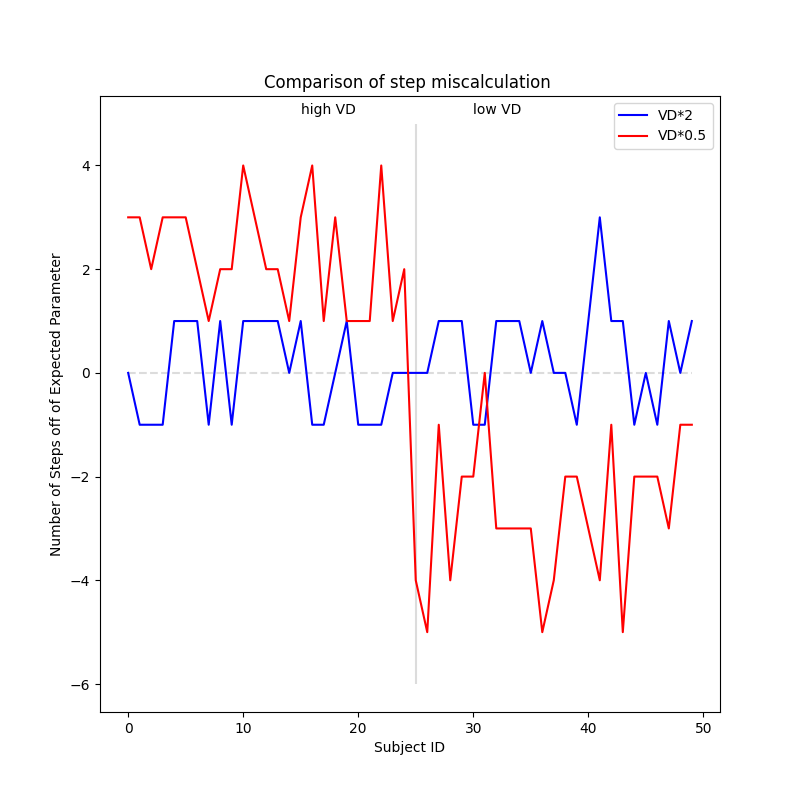
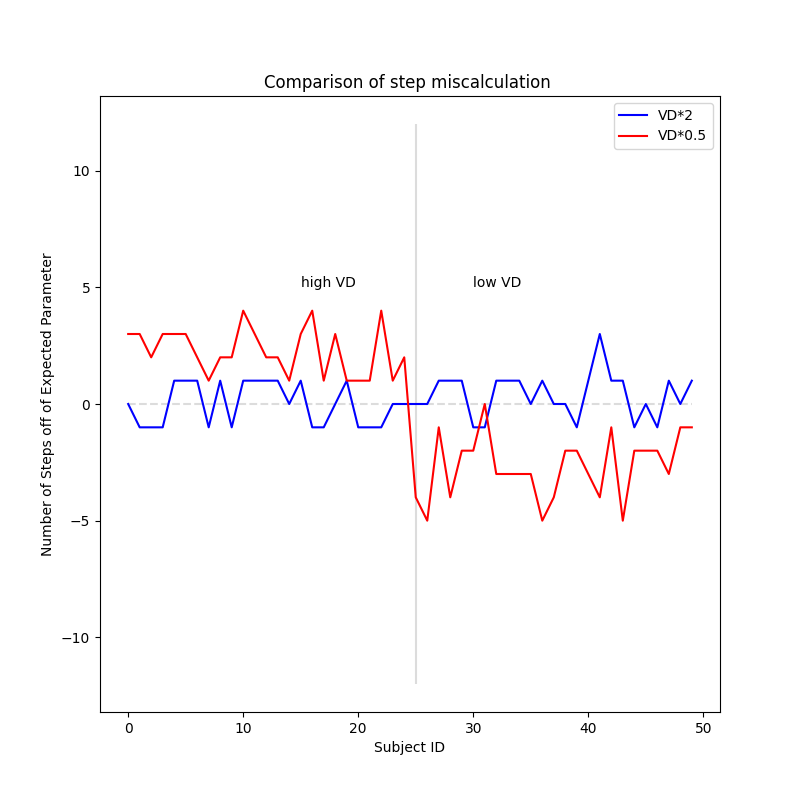
Add average ratios

diff --git a/Da_data/compare_avg_ratios.py b/Da_data/compare_avg_ratios.py
@@ -1,0 +1,80 @@
+import pandas as pd 
+import numpy as np
+import matplotlib.pyplot as plt
+import sys
+
+PARAM = sys.argv[1]
+
+assert PARAM in ["d", "sigma", "theta"]
+
+version = sys.argv[2]
+try: 
+    suffix = sys.argv[3]
+except IndexError: 
+    suffix = ""
+
+
+pd1 = pd.read_csv(f"v{version}_output/run_4condi{suffix}.csv")
+pd2 = pd.read_csv(f"v{version}_output/run_2{suffix}.csv")
+pd05 = pd.read_csv(f"v{version}_output/run_05{suffix}.csv")
+
+subjects = []
+d1_to_d2 = []
+d1_to_d05 = []
+
+plt.figure(figsize=(8, 8))
+
+num_subjects = pd1.shape[0]
+print(f"num_subjects={num_subjects}")
+
+for (i, row), (j, row2), (k, row05) in zip(pd1.iterrows(), pd2.iterrows(), pd05.iterrows()): 
+    subjects.append(i)
+
+    if row[PARAM] - row2[PARAM]== 0: 
+        d1_to_d2.append(1)
+    else:
+        d1_to_d2.append(row2[PARAM]/ row[PARAM])
+
+    if row[PARAM] - row05[PARAM] == 0: 
+        d1_to_d05.append(1)
+    else: 
+        if row05[PARAM] == 0: 
+            row05[PARAM] = 0.1
+        d1_to_d05.append(row05[PARAM]/ row[PARAM] )
+
+half_subjs = num_subjects // 2
+subjects = subjects[:half_subjs]
+for i in range(half_subjs): 
+    d1_to_d05[i] = (d1_to_d05[i] + d1_to_d05[i + half_subjs]) / 2
+for i in range(half_subjs): 
+    d1_to_d2[i] = (d1_to_d2[i] + d1_to_d2[i + half_subjs]) / 2
+d1_to_d05 = d1_to_d05[:half_subjs]
+d1_to_d2 = d1_to_d2[:half_subjs]
+
+
+lim = max(max(d1_to_d05), max(d1_to_d2))
+if PARAM == "d": 
+    plt.plot(subjects, [0.5] * len(subjects), '--', color="gainsboro")
+    plt.plot(subjects, [2] * len(subjects), '--', color="gainsboro")
+else: 
+    plt.plot(subjects, [1] * len(subjects), '--', color="gainsboro")
+
+plt.plot(subjects, d1_to_d2, label="doubled VD : baseline", color="blue")
+plt.plot(subjects, d1_to_d05, label="half VD : baseline", color="red")
+
+
+
+plt.xlabel("Subject ID")
+plt.ylabel("Ratio")
+
+
+plt.legend()
+
+add = ""
+if suffix == "_fixed_st":
+    add = "(Fixed Sigma & Theta)"
+elif suffix == "_fixed": 
+    add = "(Fixed parameter space)"
+
+plt.title(f"Averaged Comparison of {PARAM} ratios for value difference scaling {add}")
+plt.savefig(f"v{version}_output/{PARAM}_avg_comparison{suffix}.png")

diff --git a/Da_data/num_step_sizes.py b/Da_data/num_step_sizes.py
@@ -35,8 +35,15 @@ for (i, row), (j, row2), (k, row05) in zip(pd1.iterrows(), pd2.iterrows(), pd05.
         round((row05["d"] - expected_d05) / STEP_SIZE05)
     )
 
-plt.vlines(len(subjects) / 2, 1.2 * min(min(d2_steps_err), min(d05_steps_err)), \
-           1.2 * max(max(d2_steps_err), max(d05_steps_err)), "gainsboro")
+if int(version) in (1, 2): 
+    y_max = 10
+    y_min = -10
+else: 
+    y_max = max(max(d2_steps_err), max(d05_steps_err))
+    y_min = min(min(d2_steps_err), min(d05_steps_err))
+
+plt.vlines(len(subjects) / 2, 1.2 * y_min, \
+           1.2 * y_max, "gainsboro")
 plt.plot(subjects, [0] * len(subjects), '--', color="gainsboro")
 
 plt.plot(subjects, d2_steps_err, label="VD*2", color="blue")
